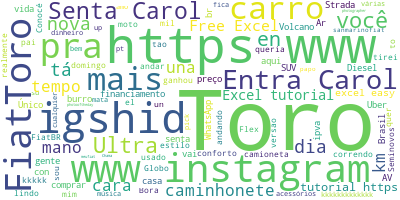
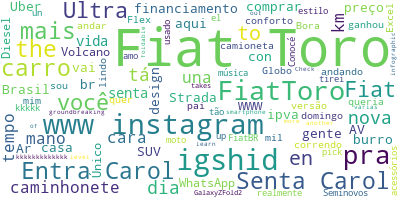
Added sessionstate to preserve app state

diff --git a/SessionState.py b/SessionState.py
@@ -1,0 +1,117 @@
+"""Hack to add per-session state to Streamlit.
+
+Usage
+-----
+
+>>> import SessionState
+>>>
+>>> session_state = SessionState.get(user_name='', favorite_color='black')
+>>> session_state.user_name
+''
+>>> session_state.user_name = 'Mary'
+>>> session_state.favorite_color
+'black'
+
+Since you set user_name above, next time your script runs this will be the
+result:
+>>> session_state = get(user_name='', favorite_color='black')
+>>> session_state.user_name
+'Mary'
+
+"""
+try:
+    import streamlit.ReportThread as ReportThread
+    from streamlit.server.Server import Server
+except Exception:
+    # Streamlit >= 0.65.0
+    import streamlit.report_thread as ReportThread
+    from streamlit.server.server import Server
+
+
+class SessionState(object):
+    def __init__(self, **kwargs):
+        """A new SessionState object.
+
+        Parameters
+        ----------
+        **kwargs : any
+            Default values for the session state.
+
+        Example
+        -------
+        >>> session_state = SessionState(user_name='', favorite_color='black')
+        >>> session_state.user_name = 'Mary'
+        ''
+        >>> session_state.favorite_color
+        'black'
+
+        """
+        for key, val in kwargs.items():
+            setattr(self, key, val)
+
+
+def get(**kwargs):
+    """Gets a SessionState object for the current session.
+
+    Creates a new object if necessary.
+
+    Parameters
+    ----------
+    **kwargs : any
+        Default values you want to add to the session state, if we're creating a
+        new one.
+
+    Example
+    -------
+    >>> session_state = get(user_name='', favorite_color='black')
+    >>> session_state.user_name
+    ''
+    >>> session_state.user_name = 'Mary'
+    >>> session_state.favorite_color
+    'black'
+
+    Since you set user_name above, next time your script runs this will be the
+    result:
+    >>> session_state = get(user_name='', favorite_color='black')
+    >>> session_state.user_name
+    'Mary'
+
+    """
+    # Hack to get the session object from Streamlit.
+
+    ctx = ReportThread.get_report_ctx()
+
+    this_session = None
+
+    current_server = Server.get_current()
+    if hasattr(current_server, '_session_infos'):
+        # Streamlit < 0.56
+        session_infos = Server.get_current()._session_infos.values()
+    else:
+        session_infos = Server.get_current()._session_info_by_id.values()
+
+    for session_info in session_infos:
+        s = session_info.session
+        if (
+            # Streamlit < 0.54.0
+            (hasattr(s, '_main_dg') and s._main_dg == ctx.main_dg)
+            or
+            # Streamlit >= 0.54.0
+            (not hasattr(s, '_main_dg') and s.enqueue == ctx.enqueue)
+            or
+            # Streamlit >= 0.65.2
+            (not hasattr(s, '_main_dg') and s._uploaded_file_mgr == ctx.uploaded_file_mgr)
+        ):
+            this_session = s
+
+    if this_session is None:
+        raise RuntimeError(
+            "Oh noes. Couldn't get your Streamlit Session object. "
+            'Are you doing something fancy with threads?')
+
+    # Got the session object! Now let's attach some state into it.
+
+    if not hasattr(this_session, '_custom_session_state'):
+        this_session._custom_session_state = SessionState(**kwargs)
+
+    return this_session._custom_session_state

diff --git a/src/twitter/twitter.py b/src/twitter/twitter.py
@@ -3,12 +3,16 @@ import datetime, time
 import base64
 import streamlit as st
 import pandas as pd
+import SessionState
 
 # File specific imports
 from .get_tweets import get_tweets 
 from .wordcloud_twitter import word_cloud_twitter
 
 def render_twitter():
+
+  session_state = SessionState.get(run_query=False, gen_wordcloud=False)
+
   st.markdown("""
                 ### Twitter
                 To work with **Twitter**, `customize your query in the sidebar to the left.`\n
@@ -45,8 +49,10 @@ def render_twitter():
   st.sidebar.markdown('-'*17)
   run_query = st.sidebar.button("Run the query")
 
-
   if run_query:
+    session_state.run_query = True
+
+  if session_state.run_query:
     with st.spinner("Wait..."):
       time.sleep(1)
 
@@ -59,7 +65,7 @@ def render_twitter():
     ## File preview
     st.markdown("### Preview the result")
     st.dataframe(tweets.head())
-    rows = tweets['User'].count()
+    rows = tweets['Date'].count()
     st.write(f'Number of tweets (rows): {rows}')
 
     ## Download file button
@@ -68,8 +74,15 @@ def render_twitter():
     href = f'<a style="font-size: 1.10rem; font-weight: 500; background-color: #0068c9; color: white; border-radius:0.5rem; padding:0.3rem 0.8rem;" href="data:file/csv;base64,{b64}" encoding="utf-8-sig" download="tweets.csv">Download raw csv file</a>'
     st.markdown(href, unsafe_allow_html=True)
 
-    word_cloud_twitter(input_stopwords, tweets)
-    st.image("word_clouds/twitter/tweets.png")
+    gen_wordcloud = st.sidebar.button('Generate wordcloud.')
+    if gen_wordcloud:
+      session_state.gen_wordcloud = True
+
+    if session_state.gen_wordcloud:
+      with st.spinner("Wait..."):
+        time.sleep(1)
+      word_cloud_twitter(input_stopwords, tweets)
+      st.image("word_clouds/twitter/tweets.png")
 
     # ## Dataset explorer view
     # st.markdown("-"*17)

diff --git a/src/twitter/get_tweets.py b/src/twitter/get_tweets.py
@@ -30,8 +30,7 @@ def get_tweets(search, location, language, startdate, enddate, maxtweet):
     tweet = got.manager.TweetManager.getTweets(tweetCriteria)
     
     # Filter the result (tweet) to show only wanted information and assign them to text_tweets
-    text_tweets = [[tw.username,
-                tw.text,
+    text_tweets = [[tw.text,
                 tw.date,
                 tw.retweets,
                 tw.favorites,
@@ -39,6 +38,6 @@ def get_tweets(search, location, language, startdate, enddate, maxtweet):
                 tw.hashtags] for tw in tweet]
     
     # Transform text_tweets in a pandas dataframe
-    tweets_df = pd.DataFrame(text_tweets, columns = ['User', 'Text', 'Date', 'Favorites', 'Retweets', 'Mentions', 'Hashtags'])
+    tweets_df = pd.DataFrame(text_tweets, columns = ['Text', 'Date', 'Favorites', 'Retweets', 'Mentions', 'Hashtags'])
     
     return tweets_df
